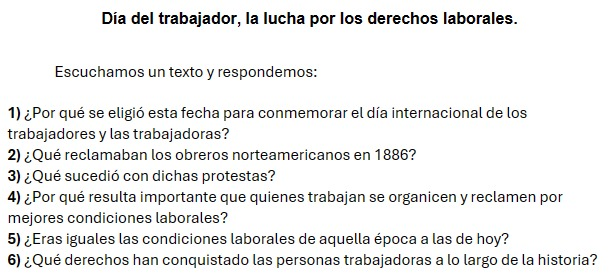
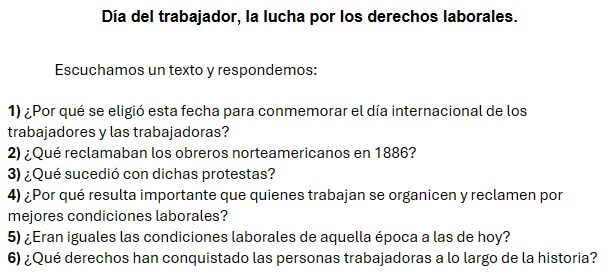
3 de mayo

diff --git a/Materias/efemerides.html b/Materias/efemerides.html
@@ -60,7 +60,7 @@
     <b>2)</b> ¿Qué reclamaban los obreros norteamericanos en 1886? <br>
     <b>3)</b> ¿Qué sucedió con dichas protestas? <br>
     <b>4)</b> ¿Por qué resulta importante que quienes trabajan se organicen y reclamen por mejores condiciones laborales? <br>
-    <b>5)</b> ¿Eras iguales las condiciones laborales de aquella época a las de hoy? <br>
+    <b>5)</b> ¿Eran iguales las condiciones laborales de aquella época a las de hoy? <br>
     <b>6)</b> ¿Qué derechos han conquistado las personas trabajadoras a lo largo de la historia? 
     <br><br>
 
